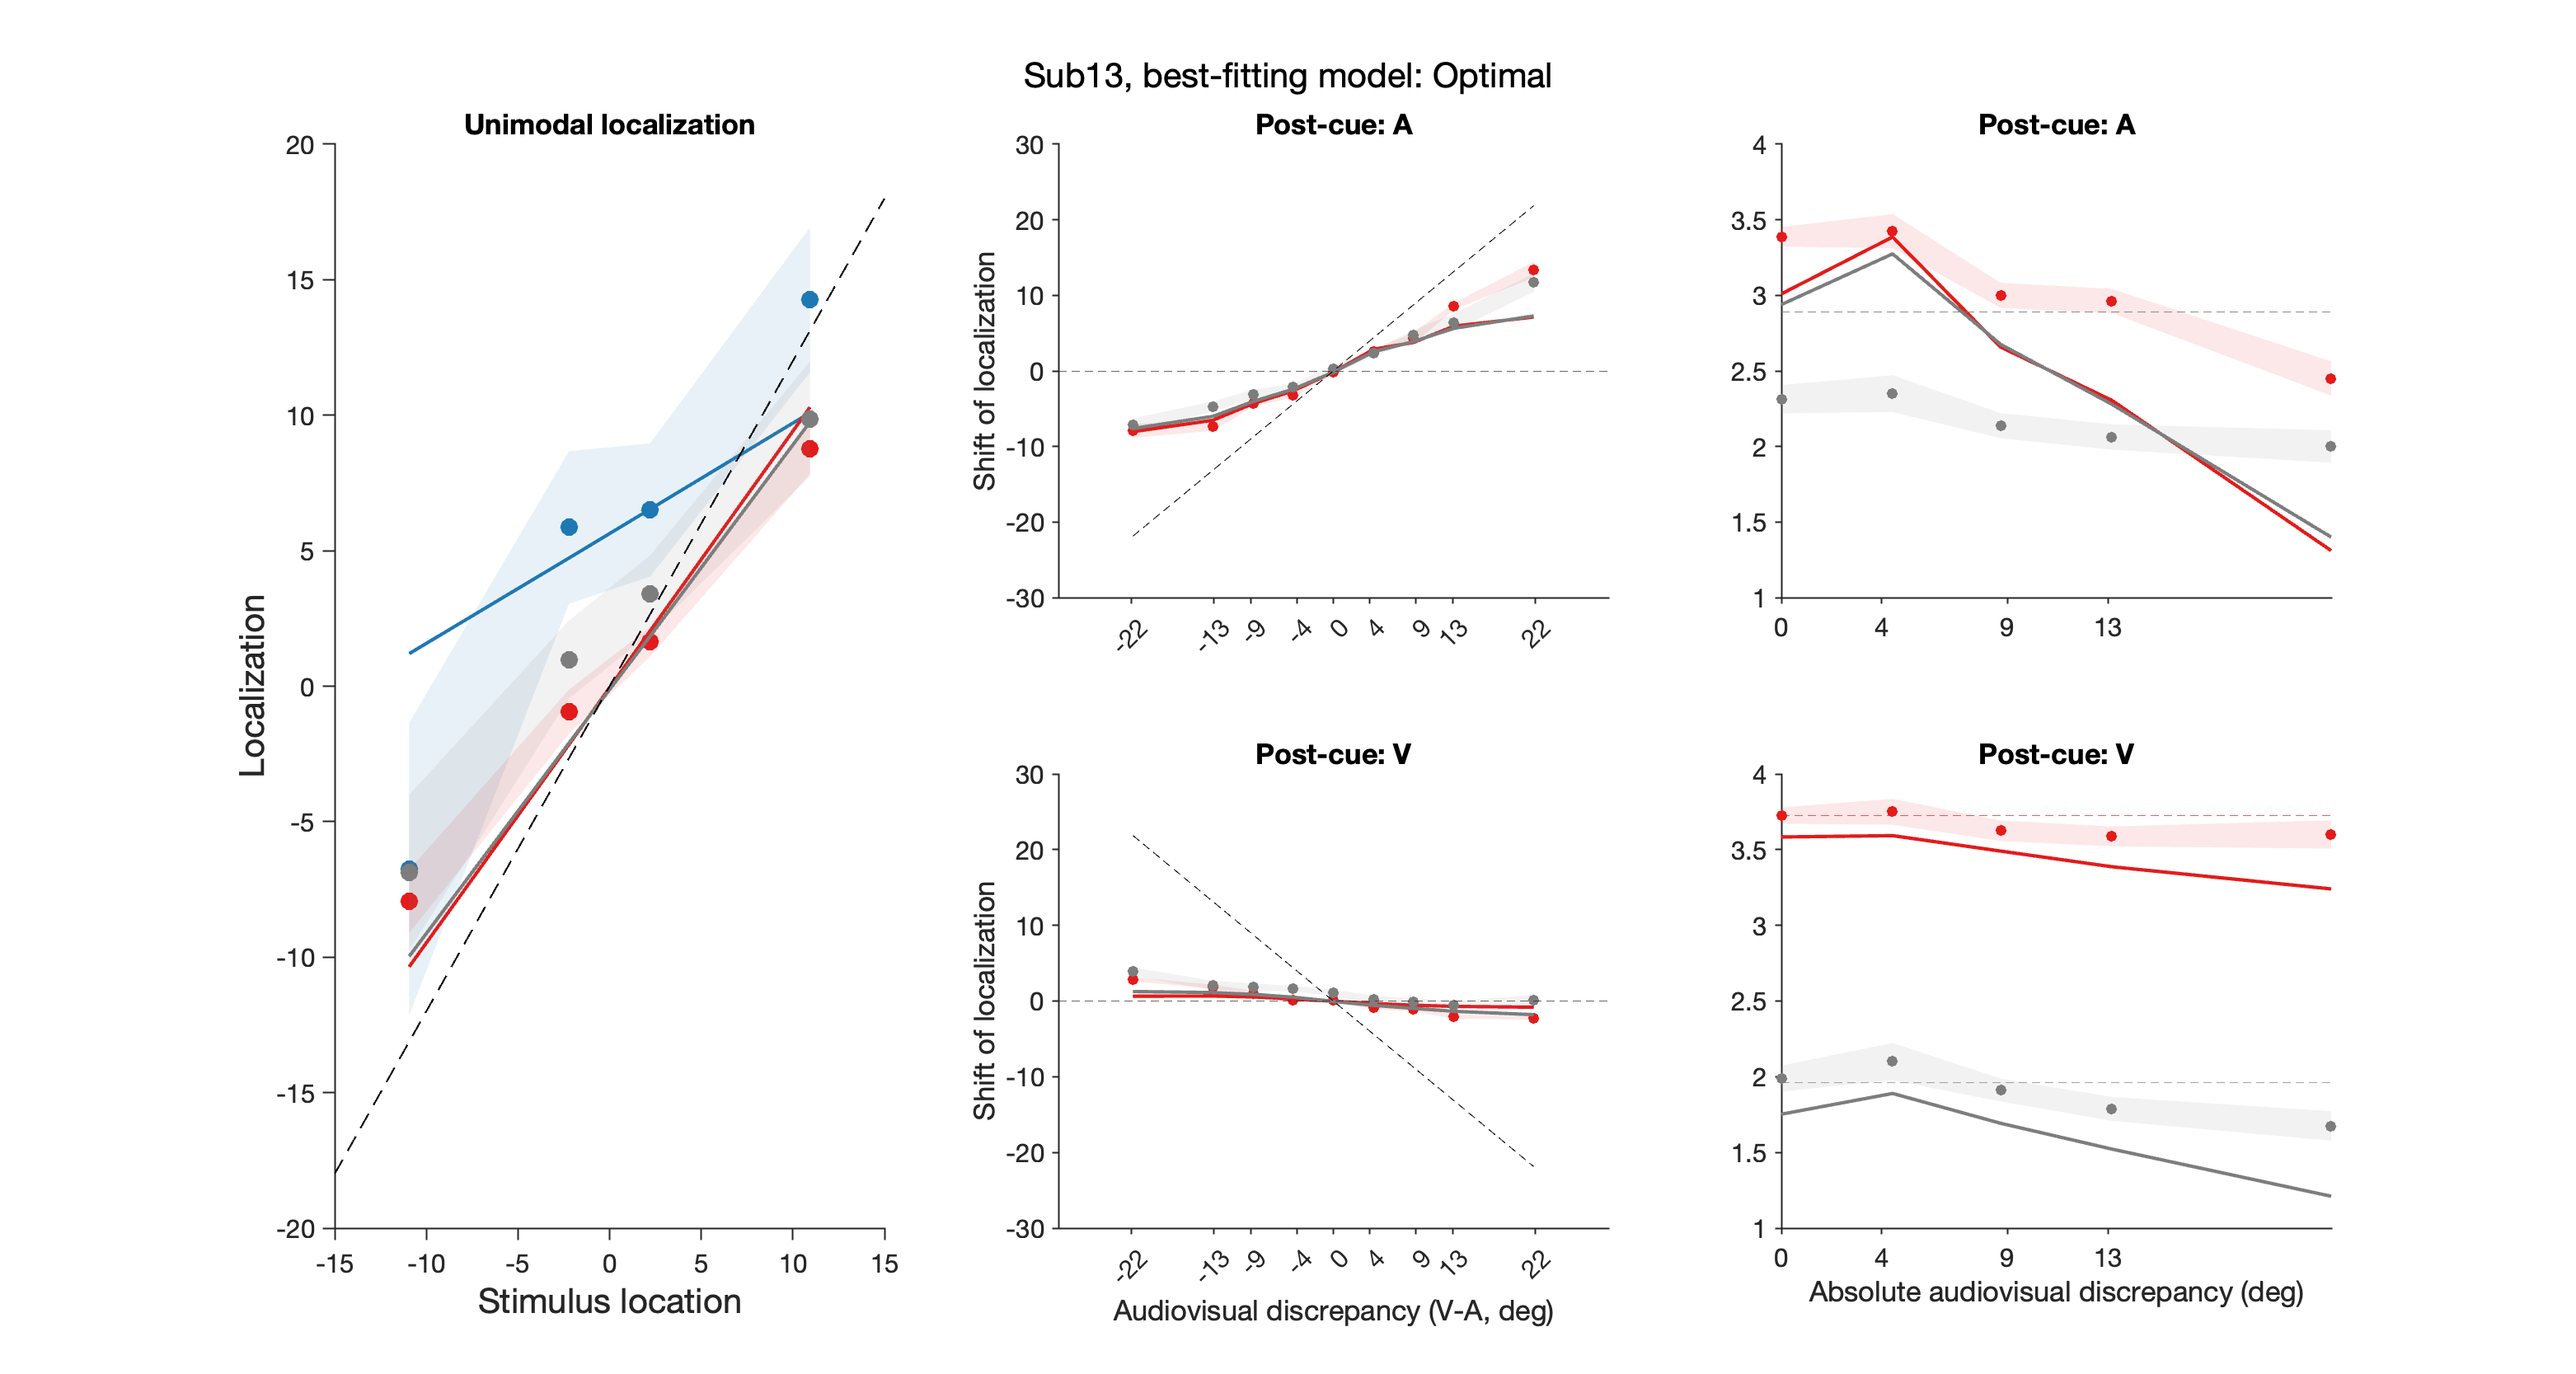
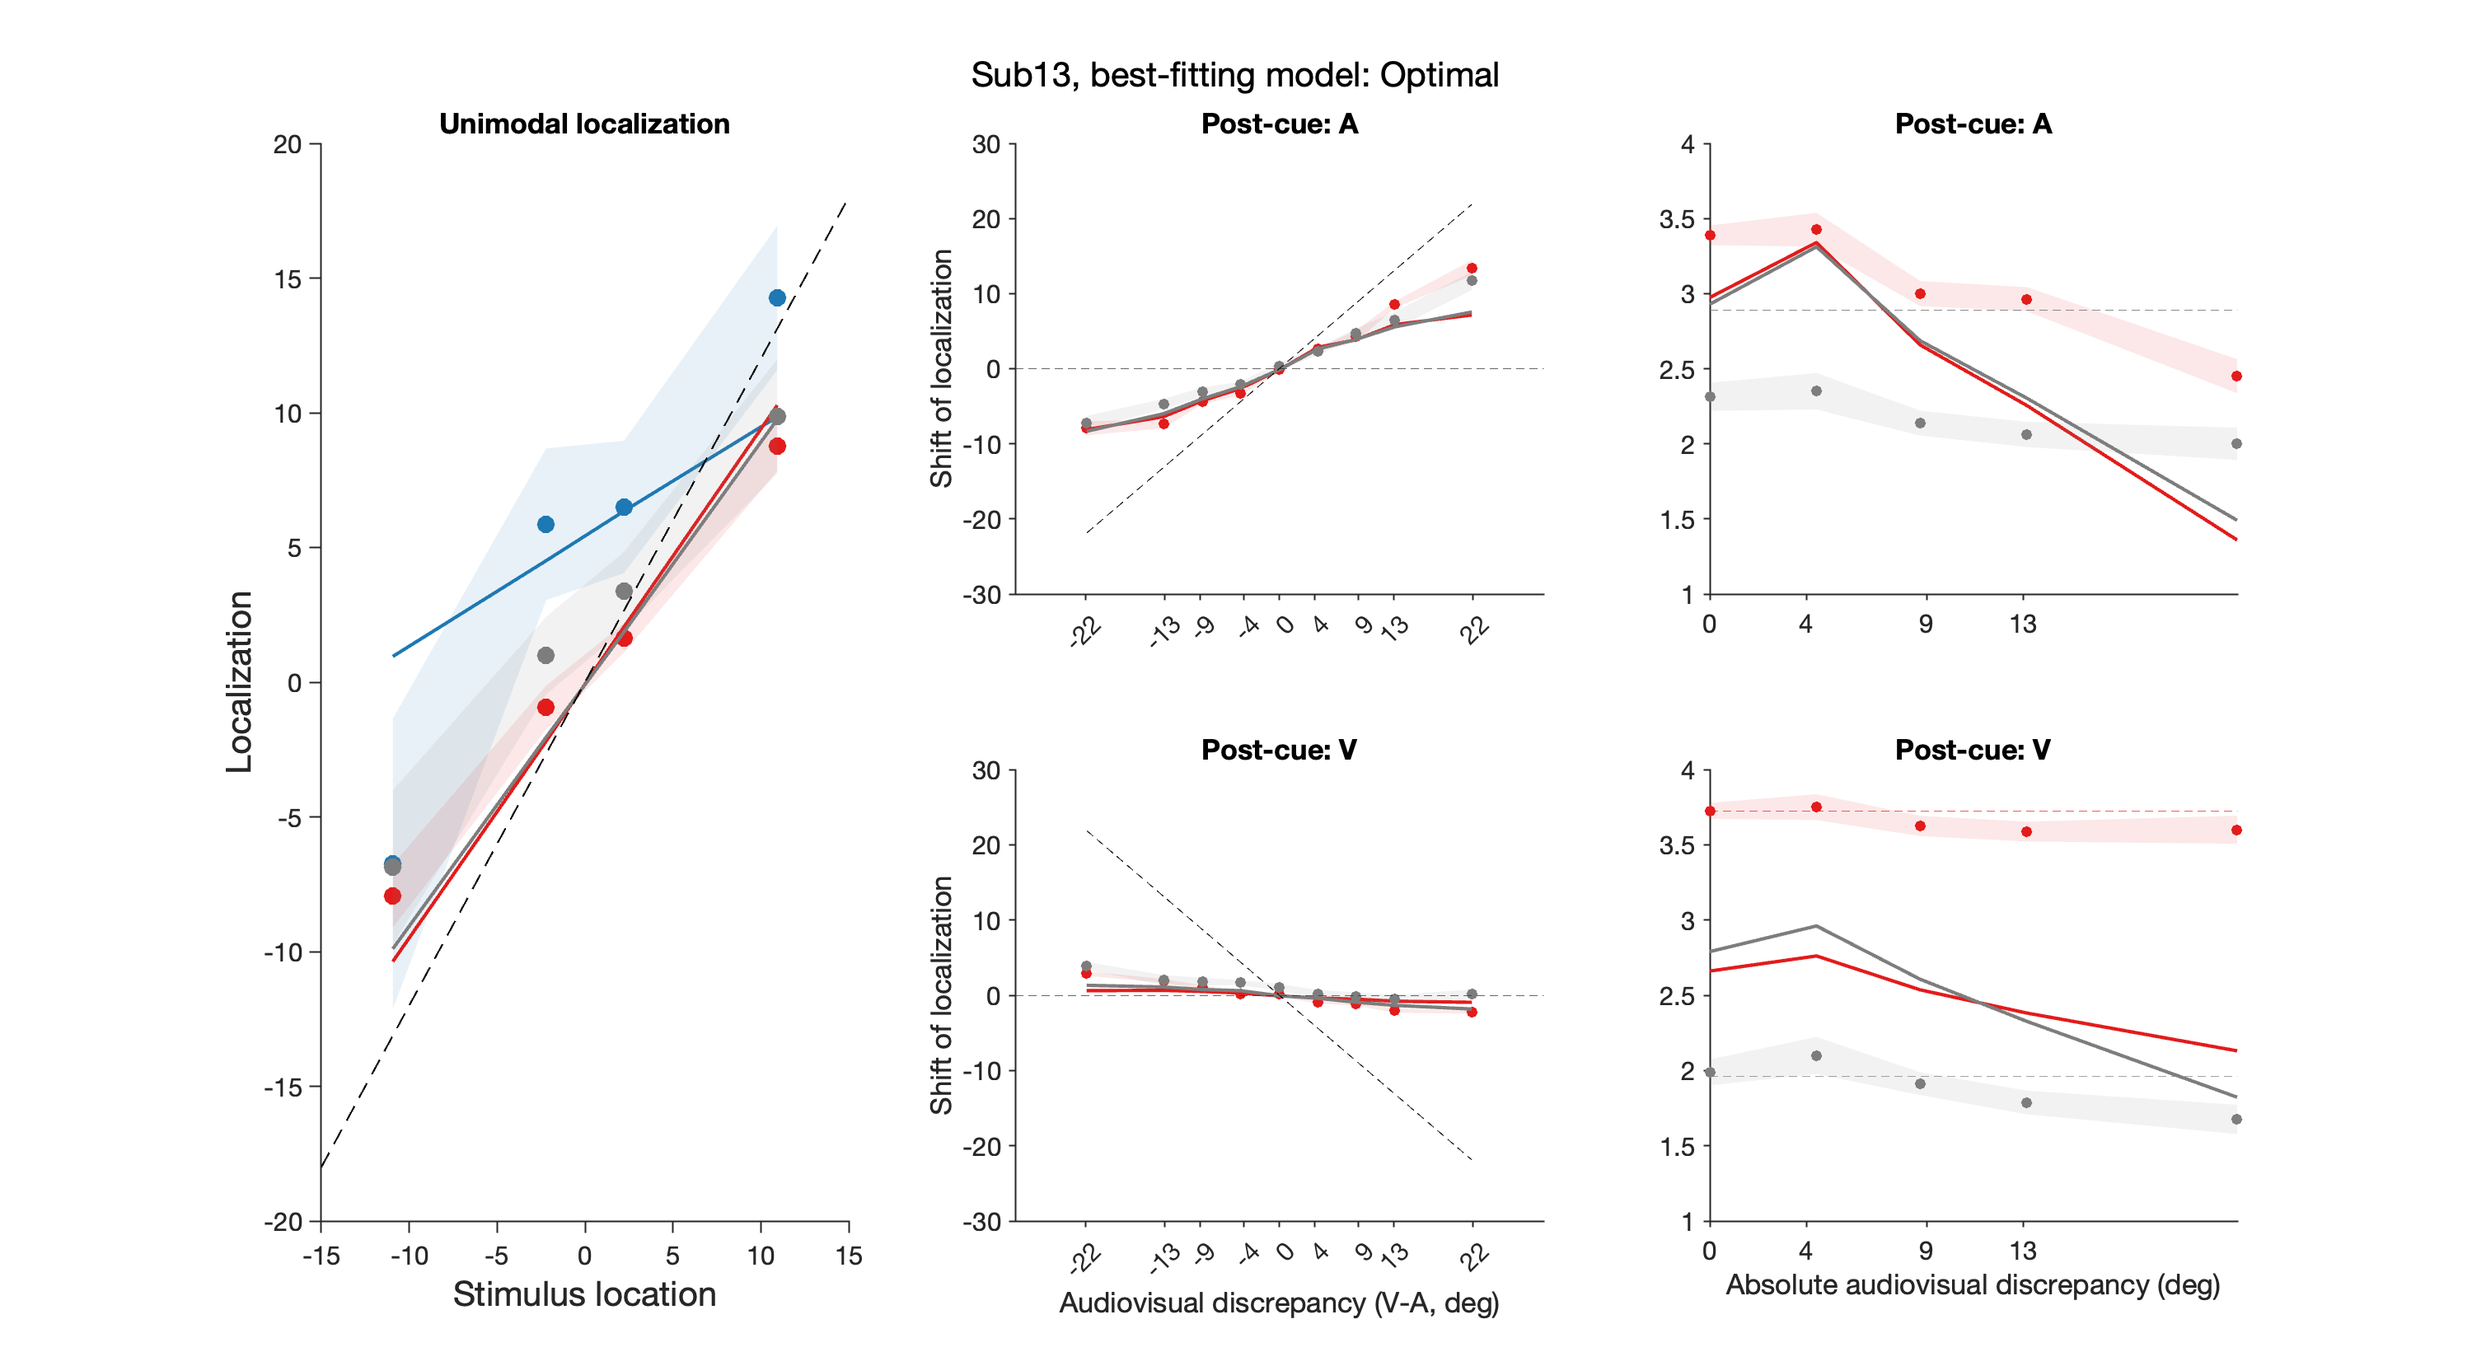
fixed bugs in quantile version

diff --git a/modelFit/uniBiLocV8_2stage_sharedSigma_adaptiveC/simAllModels5D.m b/modelFit/uniBiLocV8_2stage_sharedSigma_adaptiveC/simAllModels5D.m
@@ -1,5 +1,5 @@
 function [bi_loc, bi_conf, variance, norm_var, est_var, criteria] = simAllModels5D(...
-    aA, bA, sigA, sigVs, muP, sigP, pCommon, sigC, lapse, fixP)
+    aA, bA, sigA, sigVs, muP, sigP, pCommon, sigC, c1, c2, c3, lapse, fixP)
 
 %% generative model of bimodal session
 
@@ -8,11 +8,11 @@ sigMotor = fixP.sigMotor;
 bi_nrep = fixP.bi_nrep;
 n_sA = 4;
 
-[shat, variance] = deal(NaN(n_sA, n_sA, 2, 2, bi_nrep));
+[shat, variance, norm_var] = deal(NaN(n_sA, n_sA, 2, 2, bi_nrep));
 
-for rel = 1:numel(sigVs)
+for cue = 1:numel(sigVs)
 
-    sigV = sigVs(rel);
+    sigV = sigVs(cue);
     %simulate measurements, which are drawn from Gaussian distributions
     % stochasticity starts here
     mA2d    = randn(size(fixP.bi_sA',1), bi_nrep).*sigA + repmat((fixP.bi_sA' * aA + bA),1, bi_nrep);
@@ -61,8 +61,8 @@ for rel = 1:numel(sigVs)
     %two intermediate location estimates, weighted by the corresponding
     %causal structure.
     %Eq. 4 in Wozny et al., 2010
-    shat(:,:,1,rel,:) = post_C1.* sHat_C1 + post_C2.* sHat_A_C2;
-    shat(:,:,2,rel,:) = post_C1.* sHat_C1 + post_C2.* sHat_V_C2;
+    shat(:,:,1,cue,:) = post_C1.* sHat_C1 + post_C2.* sHat_A_C2;
+    shat(:,:,2,cue,:) = post_C1.* sHat_C1 + post_C2.* sHat_V_C2;
 
     % add motor noise
     bi_loc = randn(size(shat)).*sigMotor + shat;
@@ -71,32 +71,25 @@ for rel = 1:numel(sigVs)
     % of confidence) given each model
     switch model_ind
         case 1
-            variance(:,:,1,rel,:)= repmat(1/(1/JA + 1/JP), [n_sA, n_sA, 1, 1, bi_nrep]);
-            variance(:,:,2,rel,:)= repmat(1/(1/JV + 1/JP), [n_sA, n_sA, 1, 1, bi_nrep]);
+            variance(:,:,1,cue,:)= repmat(1/(1/JA + 1/JP), [n_sA, n_sA, 1, 1, bi_nrep]);
+            variance(:,:,2,cue,:)= repmat(1/(1/JV + 1/JP), [n_sA, n_sA, 1, 1, bi_nrep]);
         case 2
-            variance(:,:,1,rel,:)= post_C1./(1/JV + 1/JA + 1/JP) + post_C2./(1/JA + 1/JP);
-            variance(:,:,2,rel,:)= post_C1./(1/JV + 1/JA + 1/JP) + post_C2./(1/JV + 1/JP);
+            variance(:,:,1,cue,:)= post_C1./(1/JV + 1/JA + 1/JP) + post_C2./(1/JA + 1/JP);
+            variance(:,:,2,cue,:)= post_C1./(1/JV + 1/JA + 1/JP) + post_C2./(1/JV + 1/JP);
             %         % CONSIDER PREVIOUS M2 AS M3-MODEL SELECTION VER
             %         variance(1:2,:)= repmat(1/(1/JV + 1/JA + 1/JP), [2, num_rep]);
             %         variance(1,post_C1<0.5)  = 1/(1/JA + 1/JP);
             %         variance(2,post_C1<0.5)  = 1/(1/JV + 1/JP);
         case 3
-            variance(:,:,1,rel,:)= post_C1./(1/JV + 1/JA + 1/JP) + post_C2./(1/JA + 1/JP) + post_C1.* post_C2 .* (sHat_A_C2 - sHat_C1).^2;
-            variance(:,:,2,rel,:)= post_C1./(1/JV + 1/JA + 1/JP) + post_C2./(1/JV + 1/JP) + post_C1.* post_C2 .* (sHat_V_C2 - sHat_C1).^2;
+            variance(:,:,1,cue,:)= post_C1./(1/JV + 1/JA + 1/JP) + post_C2./(1/JA + 1/JP) + post_C1.* post_C2 .* (sHat_A_C2 - sHat_C1).^2;
+            variance(:,:,2,cue,:)= post_C1./(1/JV + 1/JA + 1/JP) + post_C2./(1/JV + 1/JP) + post_C1.* post_C2 .* (sHat_V_C2 - sHat_C1).^2;
     end
 
     % normalize variance by the corresponding modality noise
-    norm_var(:,:,1,rel,:) = variance(:,:,1,rel,:)./sigA;
-    norm_var(:,:,2,rel,:) = variance(:,:,2,rel,:)./sigV;
-
+    norm_var(:,:,1,cue,:) = variance(:,:,1,cue,:)./sigA;
+    norm_var(:,:,2,cue,:) = variance(:,:,2,cue,:)./sigV;
 
 end
-
-% find criteria based on 25.75, 50, 75.25% quantile
-quantiles = [0.2575, 0.5, 0.7525];
-norm_var_4d = reshape(norm_var, [4*4, 2, 2, bi_nrep]);
-quantile_values = quantile(norm_var_4d, quantiles, 4);
-criteria = squeeze(mean(mean(quantile_values,3),1)); % average quantile-based criteria across reliabilities and locations
 
 % make noisy measurements of variance/uncertainty for each modality
 m = norm_var;
@@ -105,69 +98,95 @@ mu = log((m.^2)./sqrt(v+m.^2));
 sigma = sqrt(log(v./(m.^2)+1));
 est_var = lognrnd(mu, sigma);
 
-% % visualize criteria to see if they are resonable
-% for cue = 1:2
-%     figure;
-%     set(gcf, 'Position', get(0, 'Screensize'));
-%     tiledlayout(4,4)
-%     for sA = 1:4
-%         for sV = 1:4
-%             nexttile
-%             hold on
-% 
-%             for rel = 1:2
-%                 histogram(squeeze(est_var(sA, sV, cue, rel, :)),'NumBins',25)                    
-%             end
-% 
-%             for cc = 1:3
-%                 xline(criteria(sA, sV, cue, cc))
-%             end
-%         end
-%     end
-% end
+% find criteria based on quantile
+quantiles = [c1, c2, c3];
+all_criteria = quantile(est_var, quantiles, 5);
 
-% compare noisy variance estimates to criteria to generate confidence
-% ratings
+% 2d version: seprate for modality only
+criteria = squeeze(mean(mean(mean(all_criteria, 4),2),1));
 bi_conf = NaN(size(est_var));
-
 for cue = 1:2
 
-  % Extract the criteria for the current cue
     q1 = criteria(cue, 1);
     q2 = criteria(cue, 2);
     q3 = criteria(cue, 3);
-    
-    % Extract the data for the current cue across all sA, sV, reliability, and repetition
+
     i_est_var = squeeze(est_var(:, :, cue, :, :));
-    
-    % Initialize a temporary matrix to store the classification results for the current cue
     temp_conf = NaN(size(i_est_var));
-    
-    % Apply the quantile criteria
     temp_conf(i_est_var < q1) = 4;
     temp_conf(i_est_var >= q1 & i_est_var < q2) = 3;
     temp_conf(i_est_var >= q2 & i_est_var < q3) = 2;
     temp_conf(i_est_var >= q3) = 1;
-    
-    % Assign the results back to the corresponding slice in bi_conf
-    bi_conf(:, :, cue, :, :) = reshape(temp_conf, [4, 4, 1, 2, bi_nrep]);
-    
+
+    bi_conf(:, :, cue, :, :) = temp_conf;
+
 end
 
+% % 3d version: seprate for modality and reliability -> overlapping curves
+% criteria = squeeze(mean(mean(all_criteria, 2),1));
+% bi_conf = NaN(size(est_var));
+% for cue = 1:2
+% 
+%     for rel = 1:2
+%     q1 = criteria(cue, rel, 1);
+%     q2 = criteria(cue, rel, 2);
+%     q3 = criteria(cue, rel, 3);
+% 
+%     i_est_var = squeeze(est_var(:, :, cue, rel, :));
+%     temp_conf = NaN(size(i_est_var));
+%     temp_conf(i_est_var < q1) = 4;
+%     temp_conf(i_est_var >= q1 & i_est_var < q2) = 3;
+%     temp_conf(i_est_var >= q2 & i_est_var < q3) = 2;
+%     temp_conf(i_est_var >= q3) = 1;
+% 
+%     bi_conf(:, :, cue, rel, :) = temp_conf;
+% 
+% end
 
-% for sA = 1:4
-%     for sV = 1:4
+% % 5d version: seprate for modality, reliability, and location -> flat
+% for aa = 1:4
+%     for vv = 1:4
 %         for cue = 1:2
-%             i_est_var = squeeze(est_var(sA, sV, cue, :, :));
-%             bi_conf(sA, sV, i_est_var< criteria(sA, sV, cue, 1)) = 4;
-%             bi_conf(sA, sV,i_est_var >= criteria(sA, sV,cue,1) & ...
-%                 i_est_var < criteria(sA, sV,cue, 2)) = 3;
-%             bi_conf(sA, sV,i_est_var >= criteria(sA, sV, cue, 2) & ...
-%                 i_est_var < criteria(sA, sV, cue, 3)) = 2;
-%             bi_conf(sA, sV,i_est_var >= criteria(sA, sV, cue, 3)) = 1;
+%             for rel = 1:2
+% 
+%                 q1 = criteria(aa, vv, cue, rel, 1);
+%                 q2 = criteria(aa, vv, cue, rel, 2);
+%                 q3 = criteria(aa, vv, cue, rel, 3);
+% 
+%                 i_est_var = squeeze(est_var(aa, vv, cue, rel, :));
+%                 temp_conf = NaN(size(i_est_var));
+%                 temp_conf(i_est_var < q1) = 4;
+%                 temp_conf(i_est_var >= q1 & i_est_var < q2) = 3;
+%                 temp_conf(i_est_var >= q2 & i_est_var < q3) = 2;
+%                 temp_conf(i_est_var >= q3) = 1;
+% 
+%                 bi_conf(aa, vv, cue, rel, :) = temp_conf;
+% 
+%             end
 %         end
 %     end
 % end
+
+% visualize criteria to see if they are resonable
+for cue = 1:2
+    figure;
+    set(gcf, 'Position', get(0, 'Screensize'));
+    tiledlayout(4,4)
+    for sA = 1:4
+        for sV = 1:4
+            nexttile
+            hold on
+
+            for rel = 1:2
+                histogram(squeeze(est_var(sA, sV, cue, rel, :)),'NumBins',25)
+            end
+
+            for cc = 1:3
+                xline(criteria(cue, cc))
+            end
+        end
+    end
+end
 
 % add lapse to confidence report
 lapse_trial = rand(size(bi_loc))<lapse;

diff --git a/modelFit/uniBiLocV8_2stage_sharedSigma_adaptiveC/nllUniBiConf.m b/modelFit/uniBiLocV8_2stage_sharedSigma_adaptiveC/nllUniBiConf.m
@@ -4,17 +4,14 @@ switch model.mode
 
     case 'initiate'
 
-        out.paraID                   = {'\sigma_{C}','c1','\delta_{c2}','\delta_{c3}','c4','dc5','dc6'};
+        out.paraID                   = {'\sigma_{C}','c1','\delta_{c2}','\delta_{c3}'};
         out.num_para                 = length(out.paraID);
 
         % hard bounds, the range for LB, UB, larger than soft bounds
         paraH.sigC                   = [1e-4,     5]; % measurement noise of confidence
-        paraH.c1                     = [ 0.5,     5];
+        paraH.c1                     = [1e-3,     5];
         paraH.dc2                    = [0.01,     5];
         paraH.dc3                    = [0.01,     5];
-        paraH.c4                     = [ 0.5,     5];
-        paraH.dc5                    = [0.01,     5];
-        paraH.dc6                    = [0.01,     5];
 
         % soft bounds, the range for PLB, PUB
         paraS.sigC                   = [1e-4,     2]; % measurement noise of confidence
@@ -137,7 +134,7 @@ switch model.mode
                 aA, bA, sigA, sigV1, sigV2, muP, sigP, sigC, [c1; c4; c4], [c2; c5; c5], [c3; c6; c6], lapse, fixP);
 
             [out.bi_loc, out.bi_conf, ~, ~, out.bi_est_var, out.criteria] = simAllModels5D(...
-                aA, bA, sigA, [sigV1, sigV2], muP, sigP, pCommon, sigC, lapse, fixP);
+                aA, bA, sigA, [sigV1, sigV2], muP, sigP, pCommon, sigC, c1, c2, c3, lapse, fixP);
 
             %             [bi_loc, bi_conf] = deal(NaN(numel(bi_sA), numel(bi_sV), numel(model.modality), numel(sigVs), model.bi_nrep));
 % 

diff --git a/modelFit/uniBiLocV8_2stage_sharedSigma_adaptiveC/plotModelPrediction.m b/modelFit/uniBiLocV8_2stage_sharedSigma_adaptiveC/plotModelPrediction.m
@@ -38,6 +38,7 @@ load(files(end).name);
 
 % use the best-fitting parameter and winning model
 p = saveConfModel{d}.bestP;
+p = [p(1), 0.3, 0.2, 0.2, p(5), p(6), p(7)];
 model.mode = 'predict';
 model.model_slc             = d;
 model.strategy_conf         = models{d};
@@ -46,7 +47,7 @@ model.strategy_conf         = models{d};
 model.uni_nrep = 1e3;
 model.bi_nrep = 1e3;
 pred = nllUniBiConf(p, model, data);
-disp(p)
+% disp(p)
 
 %% plot bimodal localization response as a function of stimulus location
 
